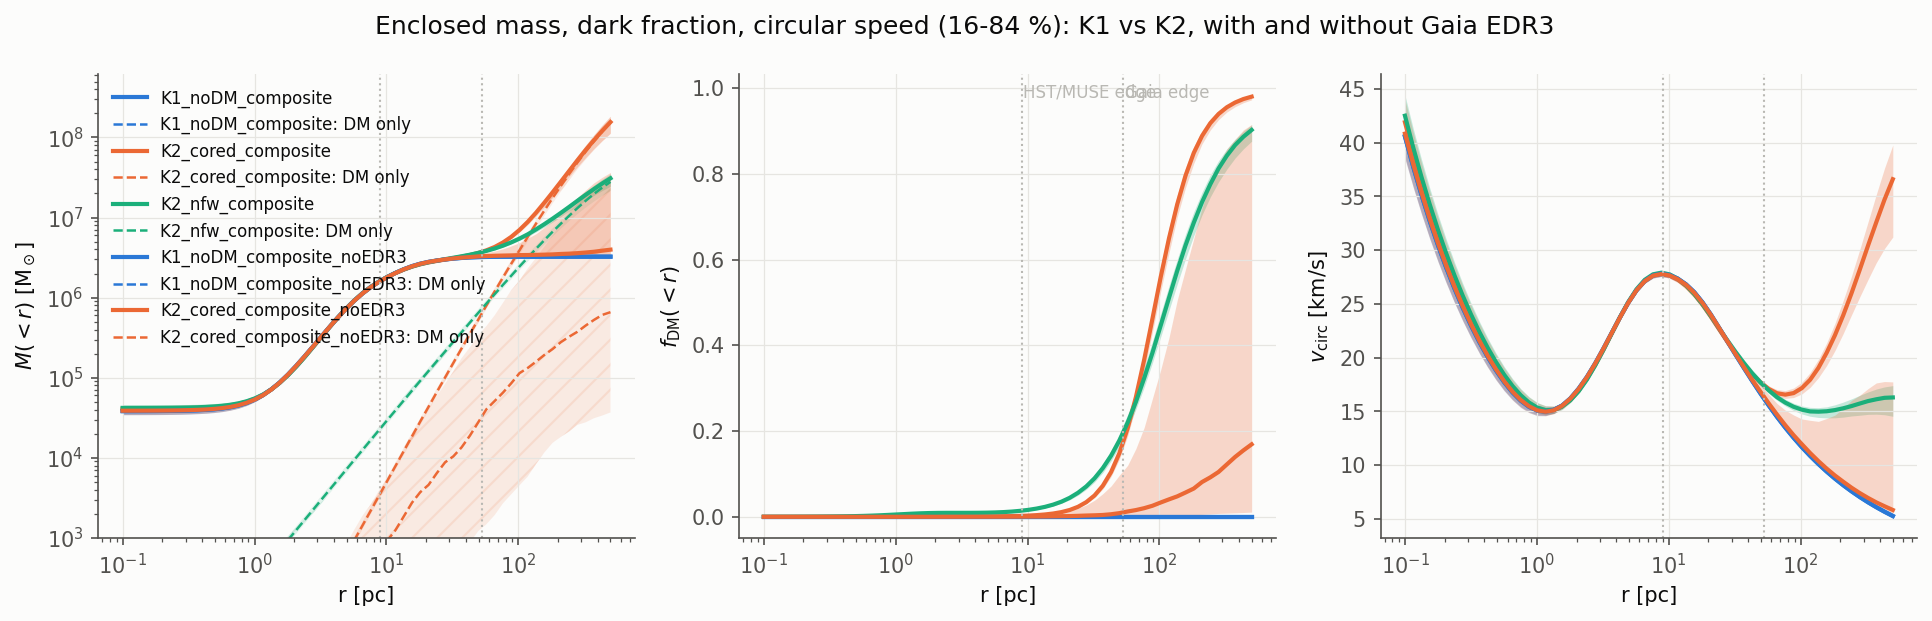
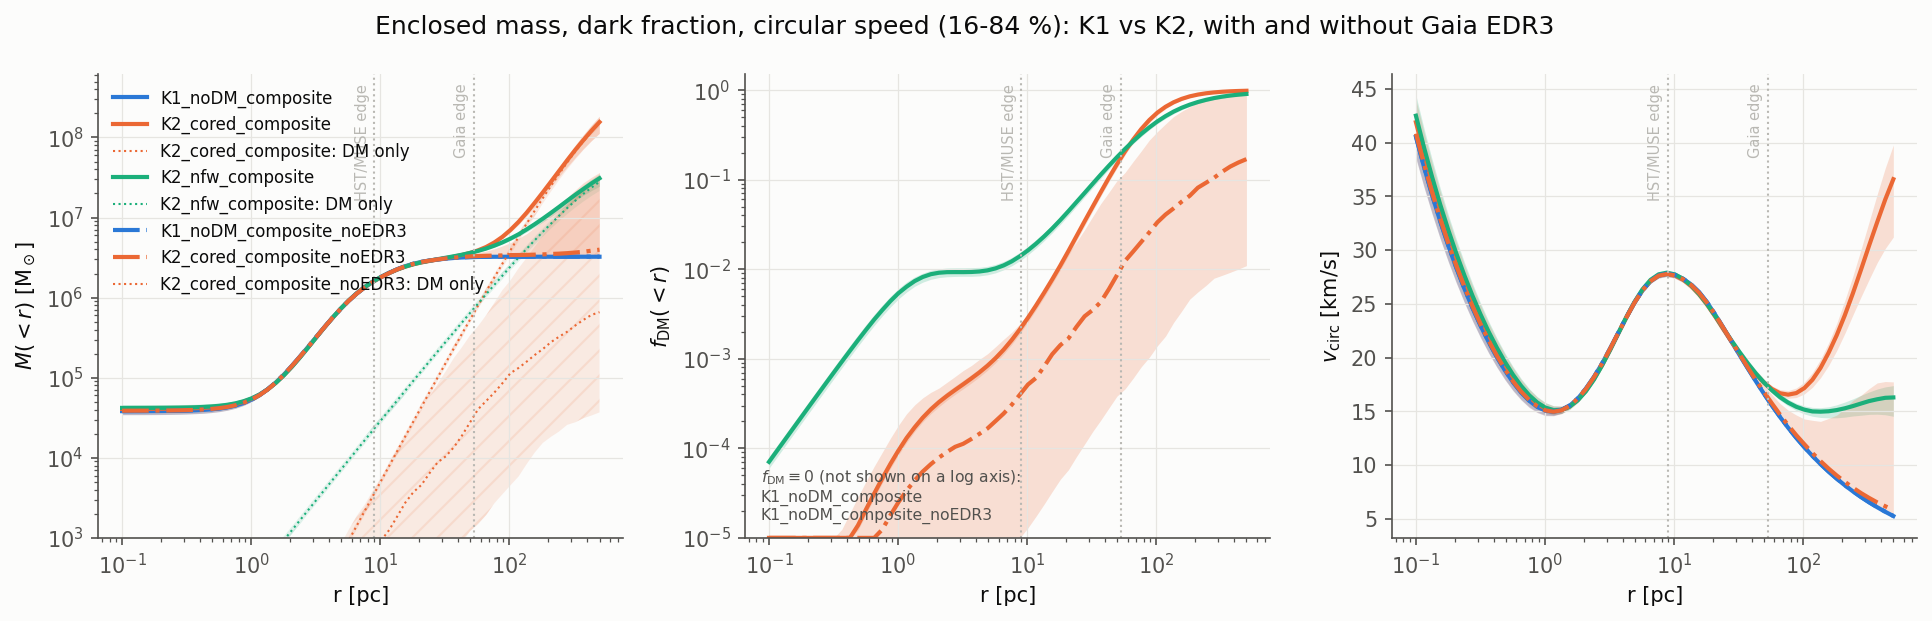
Log dark-fraction panel (no-DM runs named, not floored); colour by family, dash-dot for no-EDR3 variants

diff --git a/src/ocen_dm/plotting/fits.py b/src/ocen_dm/plotting/fits.py
@@ -11,7 +11,7 @@ import numpy as np
 
 from ..kinematics.fit import FitProblem
 from ..kinematics.likelihood import ARCSEC_PER_RAD
-from .style import apply as apply_style, SERIES, COLOR_FIELD as FIELD_GREY
+from .style import apply as apply_style, SERIES, COLOR_FIELD as FIELD_GREY, INK_SECONDARY
 
 _LABEL = {"los": r"$\sigma_{\rm LOS}$ [km/s]", "pmr": r"$\sigma_{\mu,R}$ [mas/yr]",
           "pmt": r"$\sigma_{\mu,T}$ [mas/yr]", "pmc": r"$\sigma_{\mu}$ [mas/yr]"}
@@ -80,38 +80,68 @@ def plot_profile_fit(problem: FitProblem, x: np.ndarray, path: Path, title: str 
     return path
 
 
-def plot_posterior_profiles(run_dirs: dict[str, Path], path: Path, title: str = "") -> Path:
+def plot_posterior_profiles(run_dirs: dict[str, Path], path: Path, title: str = "",
+                            f_dm_floor: float = 1e-5) -> Path:
     """Enclosed-mass, dark fraction and circular-speed bands from ``profiles.npz`` files.
 
     Parameters
     ----------
     run_dirs : dict
         ``label -> results/fits/<label>`` for each run to overlay (K1, K2 ...).
+    f_dm_floor : float
+        Bottom of the logarithmic dark-fraction axis. A no-DM (K1) run has
+        ``f_DM = 0`` identically, which no logarithmic axis can show: those runs
+        are named in the panel instead of being drawn at an arbitrary floor.
     """
     apply_style()
     fig, axes = plt.subplots(1, 3, figsize=(13, 4.2))
+    zero_f_dm: list[str] = []
+    # colour follows the model family, never the run order: a variant fitted to a
+    # subset of the data keeps its family's colour and is drawn dash-dotted, so the
+    # same colour never means two different models.
+    families: list[str] = []
+    for label in run_dirs:
+        fam = label.replace("_noEDR3", "").replace("_mockK1", "")
+        if fam not in families:
+            families.append(fam)
     for i, (label, d) in enumerate(run_dirs.items()):
         prof = np.load(Path(d) / "profiles.npz")
-        r = prof["r"]; color = SERIES[i % len(SERIES)]
+        fam = label.replace("_noEDR3", "").replace("_mockK1", "")
+        r = prof["r"]; color = SERIES[families.index(fam) % len(SERIES)]
+        style_kw = {"ls": "-." if "noEDR3" in label else "-"}
         for ax, key, ylabel, log in ((axes[0], "M_total", r"$M(<r)$ [M$_\odot$]", True),
-                                     (axes[1], "f_dm", r"$f_{\rm DM}(<r)$", False),
+                                     (axes[1], "f_dm", r"$f_{\rm DM}(<r)$", True),
                                      (axes[2], "v_circ", r"$v_{\rm circ}$ [km/s]", False)):
             lo, mid, hi = np.percentile(prof[key], [16, 50, 84], axis=0)
-            ax.fill_between(r, lo, hi, color=color, alpha=0.25, lw=0)
-            ax.plot(r, mid, color=color, lw=2, label=label)
+            if key == "f_dm":
+                if not np.any(hi > 0):                     # K1: no dark component at all
+                    zero_f_dm.append(label)
+                    ax.set_xscale("log"); ax.set_xlabel("r [pc]"); ax.set_ylabel(ylabel)
+                    ax.set_yscale("log")
+                    continue
+                lo, mid, hi = (np.maximum(v, f_dm_floor) for v in (lo, mid, hi))
+            ax.fill_between(r, lo, hi, color=color, alpha=0.2, lw=0)
+            ax.plot(r, mid, color=color, lw=2, label=label, **style_kw)
             ax.set_xscale("log"); ax.set_xlabel("r [pc]"); ax.set_ylabel(ylabel)
             if log:
                 ax.set_yscale("log")
         if "M_dm" in prof.files:
             lo, mid, hi = np.percentile(prof["M_dm"], [16, 50, 84], axis=0)
-            axes[0].fill_between(r, np.maximum(lo, 1), hi, color=color, alpha=0.12, lw=0, hatch="//")
-            axes[0].plot(r, np.maximum(mid, 1), color=color, lw=1.2, ls="--", label=f"{label}: DM only")
+            if np.any(hi > 0):
+                axes[0].fill_between(r, np.maximum(lo, 1), hi, color=color, alpha=0.12, lw=0, hatch="//")
+                axes[0].plot(r, np.maximum(mid, 1), color=color, lw=1.0, ls=":", label=f"{label}: DM only")
     axes[0].set_ylim(1e3, None); axes[0].legend(fontsize=8)
+    axes[1].set_ylim(f_dm_floor, 1.5)
+    if zero_f_dm:
+        axes[1].text(0.03, 0.03, "$f_{\\rm DM} \\equiv 0$ (not shown on a log axis):\n" + "\n".join(zero_f_dm),
+                     transform=axes[1].transAxes, fontsize=7.5, color=INK_SECONDARY, va="bottom")
     for R_hst, R_gaia in ((9.0, 53.0),):                      # data extents in pc at 5.43 kpc
         for ax in axes:
             ax.axvline(R_hst, color=FIELD_GREY, lw=1, ls=":"); ax.axvline(R_gaia, color=FIELD_GREY, lw=1, ls=":")
-    axes[1].text(9.2, 0.95, "HST/MUSE edge", fontsize=8, color=FIELD_GREY, transform=axes[1].get_xaxis_transform())
-    axes[1].text(55, 0.95, "Gaia edge", fontsize=8, color=FIELD_GREY, transform=axes[1].get_xaxis_transform())
+            ax.text(R_hst * 0.92, 0.98, "HST/MUSE edge", fontsize=7, color=FIELD_GREY,
+                    transform=ax.get_xaxis_transform(), rotation=90, va="top", ha="right")
+            ax.text(R_gaia * 0.92, 0.98, "Gaia edge", fontsize=7, color=FIELD_GREY,
+                    transform=ax.get_xaxis_transform(), rotation=90, va="top", ha="right")
     if title:
         fig.suptitle(title)
     fig.tight_layout()

diff --git a/JOURNAL.md b/JOURNAL.md
@@ -1459,3 +1459,13 @@ What the set says, without a decision attached:
 
 Decisions on the model (K2 truncation/prior; how to treat the EDR3 profile) are the
 user's and are pending; the Jacobi-truncation proposal diff remains parked.
+
+**Figure update.** The dark-fraction panel of `plots/fit_posterior_profiles_main.png` is now
+logarithmic (`plot_posterior_profiles(..., f_dm_floor=1e-5)`); the K1 runs have f_DM ≡ 0 and
+are named in the panel rather than drawn at an arbitrary floor. Colour now follows the model
+family and the no-EDR3 variants are dash-dotted, so the same colour never means two models.
+The log axis shows what the linear one hid: **the two halo shapes differ by two orders of
+magnitude in the core** — at 0.3–1 pc the NFW run carries f_DM = 7e-4–5e-3 against the cored
+run's 4e-6–9e-5, and the NFW curve is already flat by 3 pc. Both reach ~0.45–0.56 at 100 pc.
+So the cusp/core choice is decided inside 1 pc, where HST gives the tightest data and where
+the ~4e4 M☉ point mass sits — a degeneracy to keep in view when the M• question is taken up.
